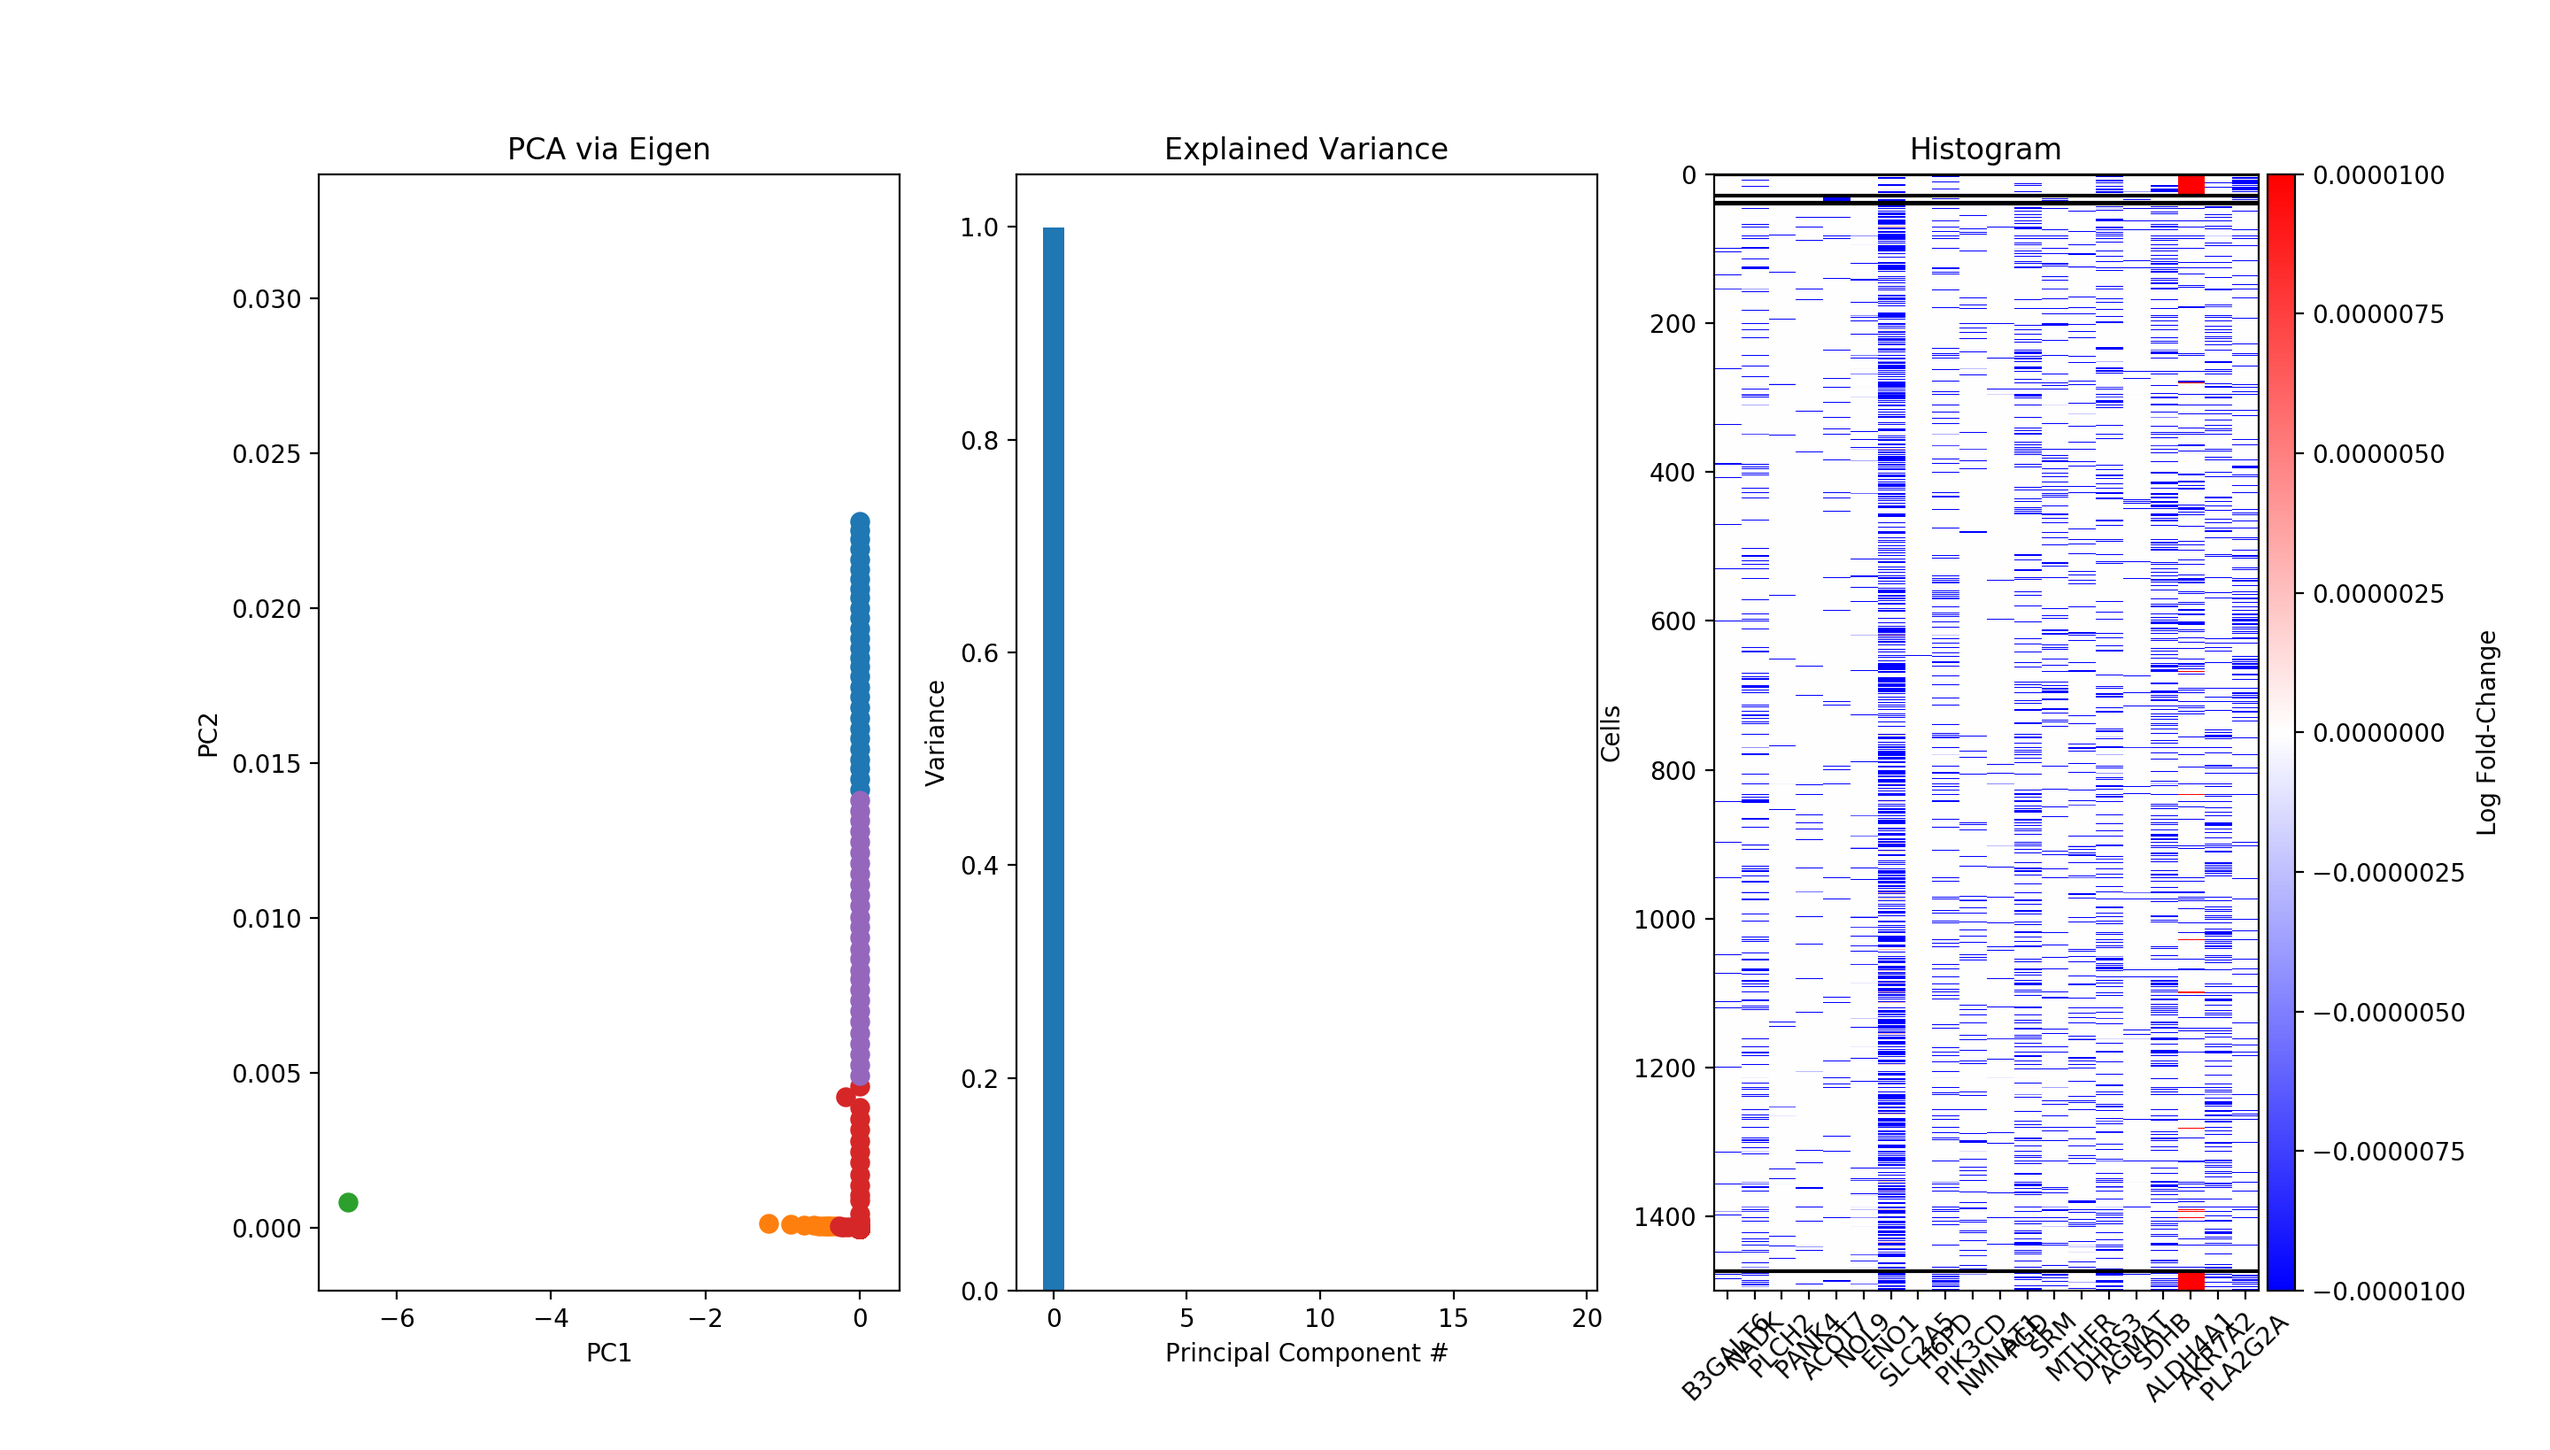
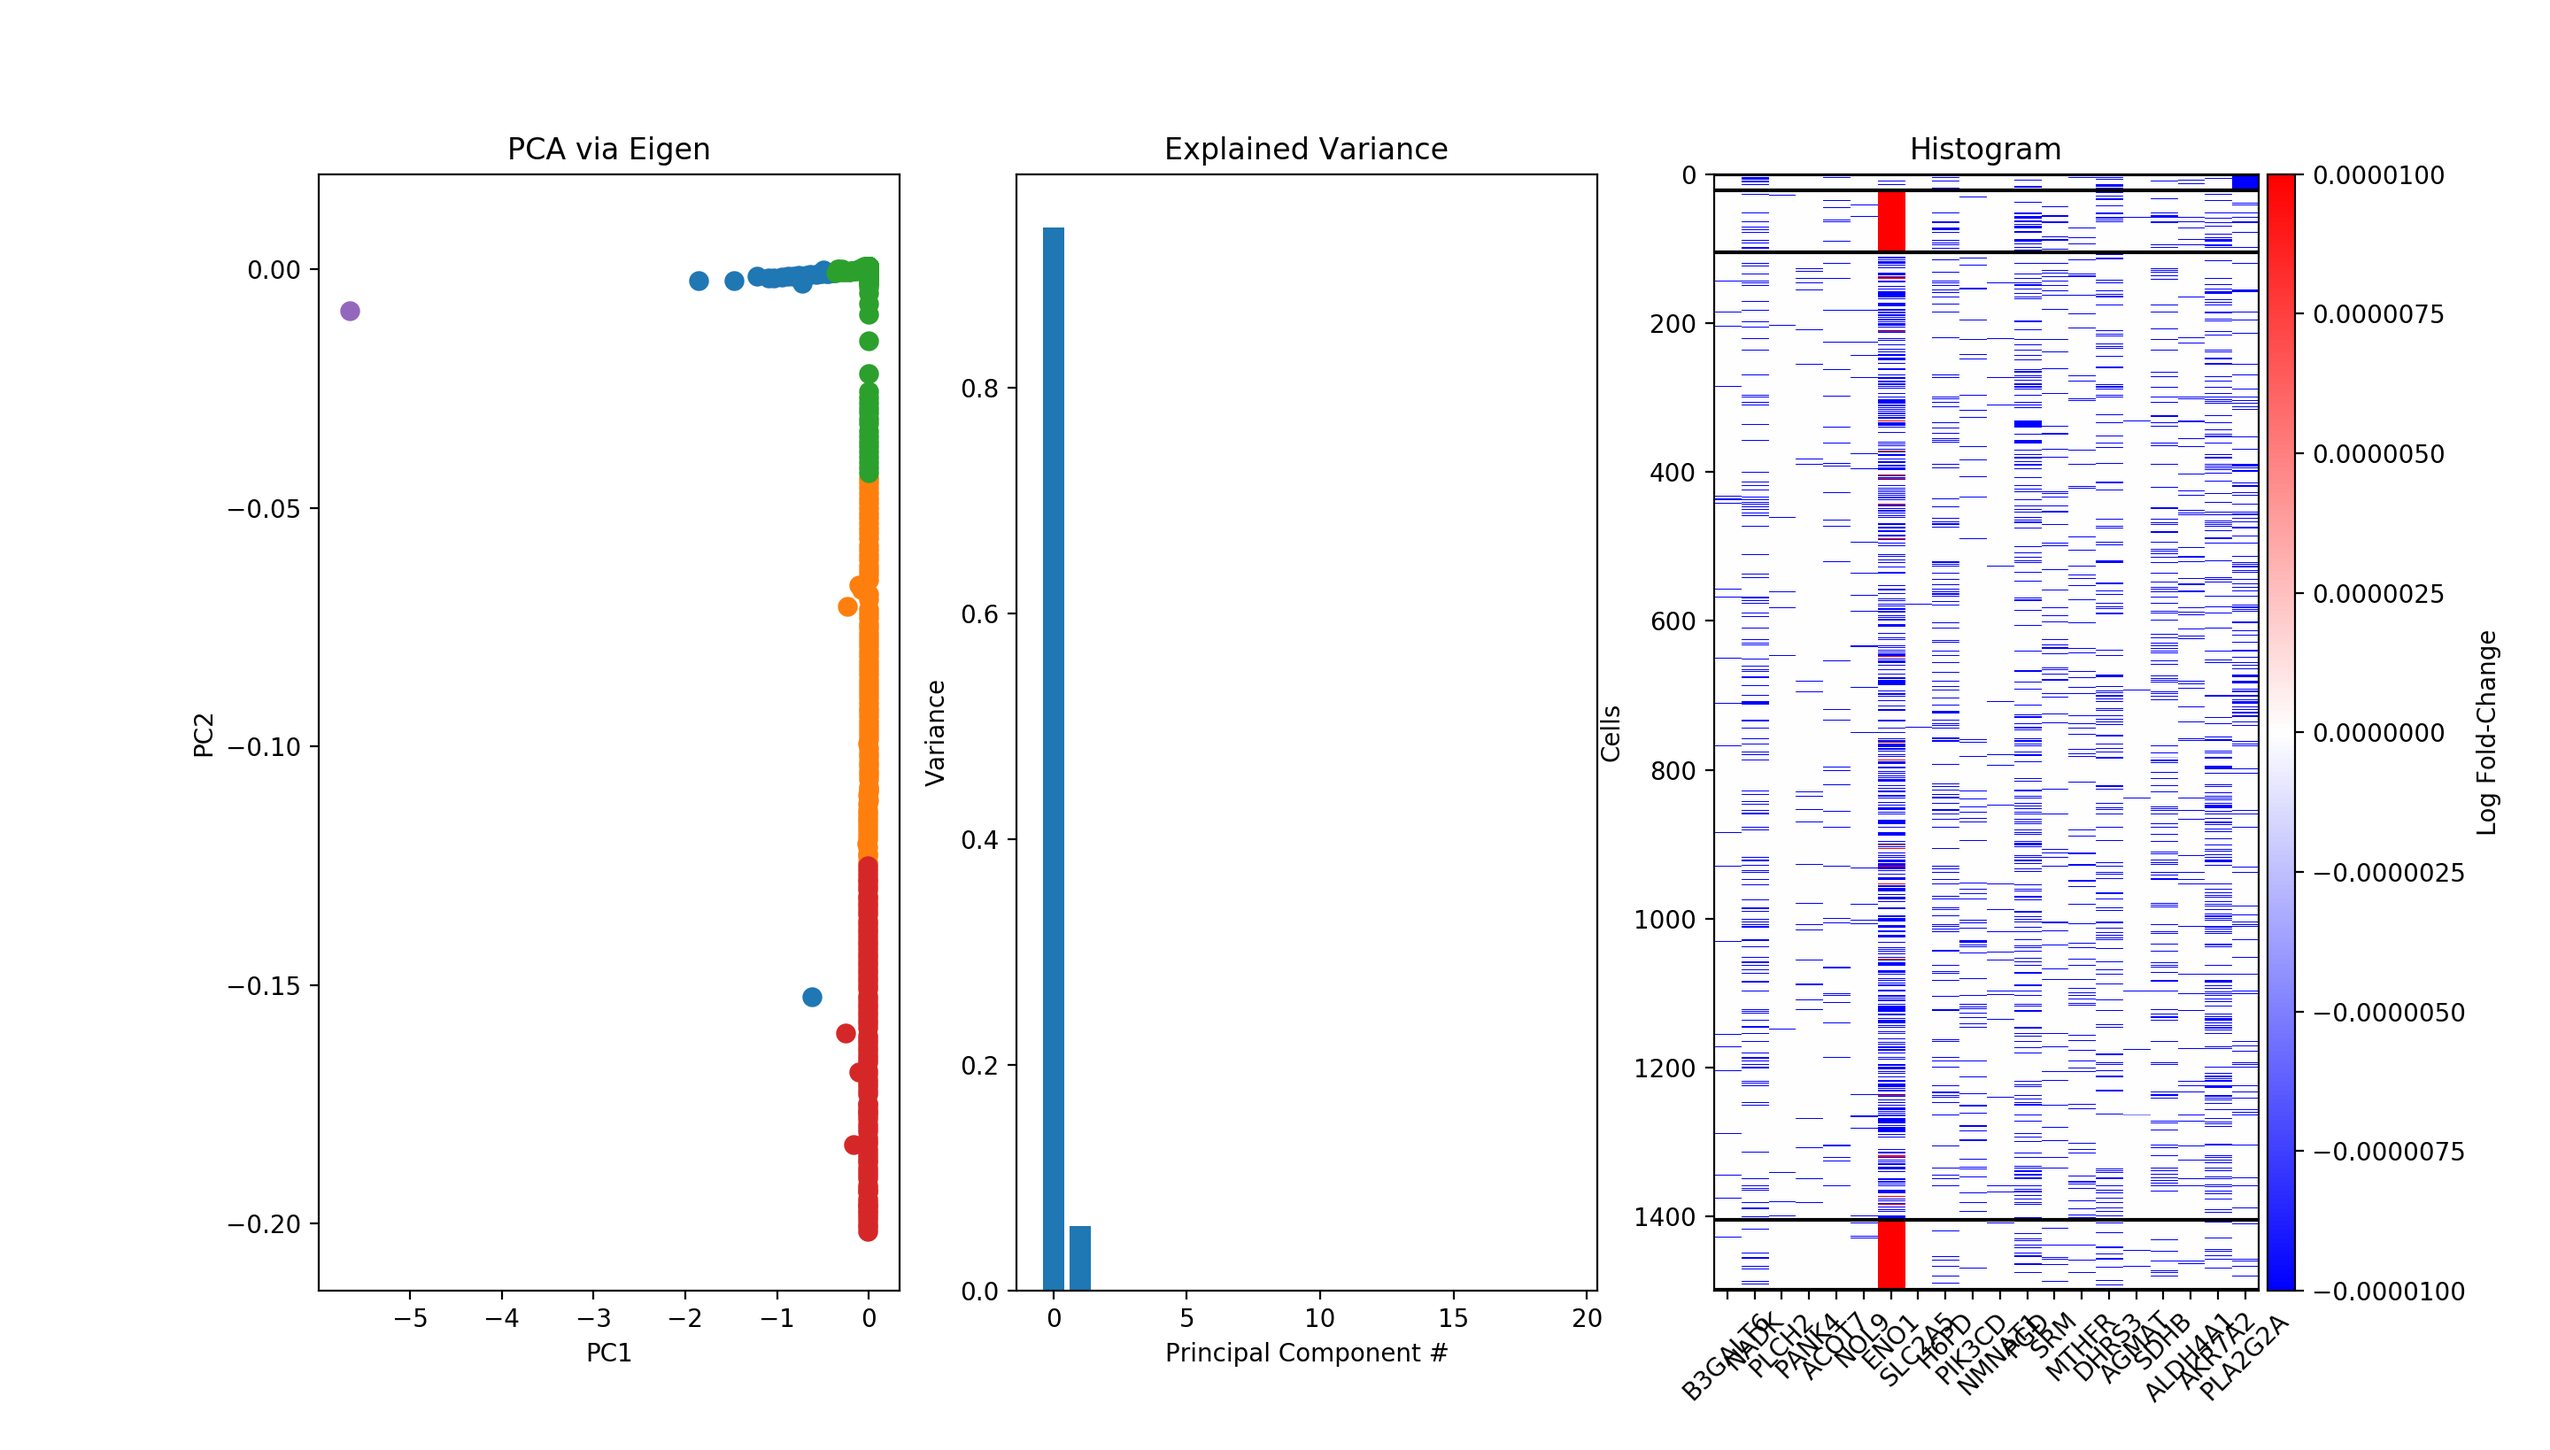
change objective function to ATP drain and get results for 20 genes and 1500 cells

diff --git a/Final_KY_Jelly/main_updated.py b/Final_KY_Jelly/main_updated.py
@@ -15,6 +15,14 @@ gn = 20
 
 # import model
 modelOriginal = cobra.io.load_matlab_model('Recon3D.mat')
+rxnName = 'atp_drain'
+met_name = 'atp_c'
+stoich = [-1]
+tempRxn = cobra.Reaction(rxnName)
+tempDrainMetDict = {modelOriginal.metabolites.get_by_id(met_name): s for name, s in zip(met_name, stoich)}
+tempRxn.add_metabolites(tempDrainMetDict)
+modelOriginal.add_reaction(tempRxn)
+modelOriginal.objective = rxnName
 
 
 def optimize_for_gene(name, expression):

diff --git a/Final_KY_Jelly/cluster.py b/Final_KY_Jelly/cluster.py
@@ -10,9 +10,9 @@ from matplotlib.colors import LogNorm
 clusternum = 5
 
 # load the data
-data = np.loadtxt('results.txt')
+data = np.loadtxt('results20genes1500cells.txt.gz')
 # collect the names of genes
-dimf = open('dimensions_of_results.txt', 'r')
+dimf = open('dimensions_of_results20genes1500cells.txt', 'r')
 dimnames = dimf.readlines()
 # gene names are separated by ;s
 dimnames = dimnames[0].split(';')
